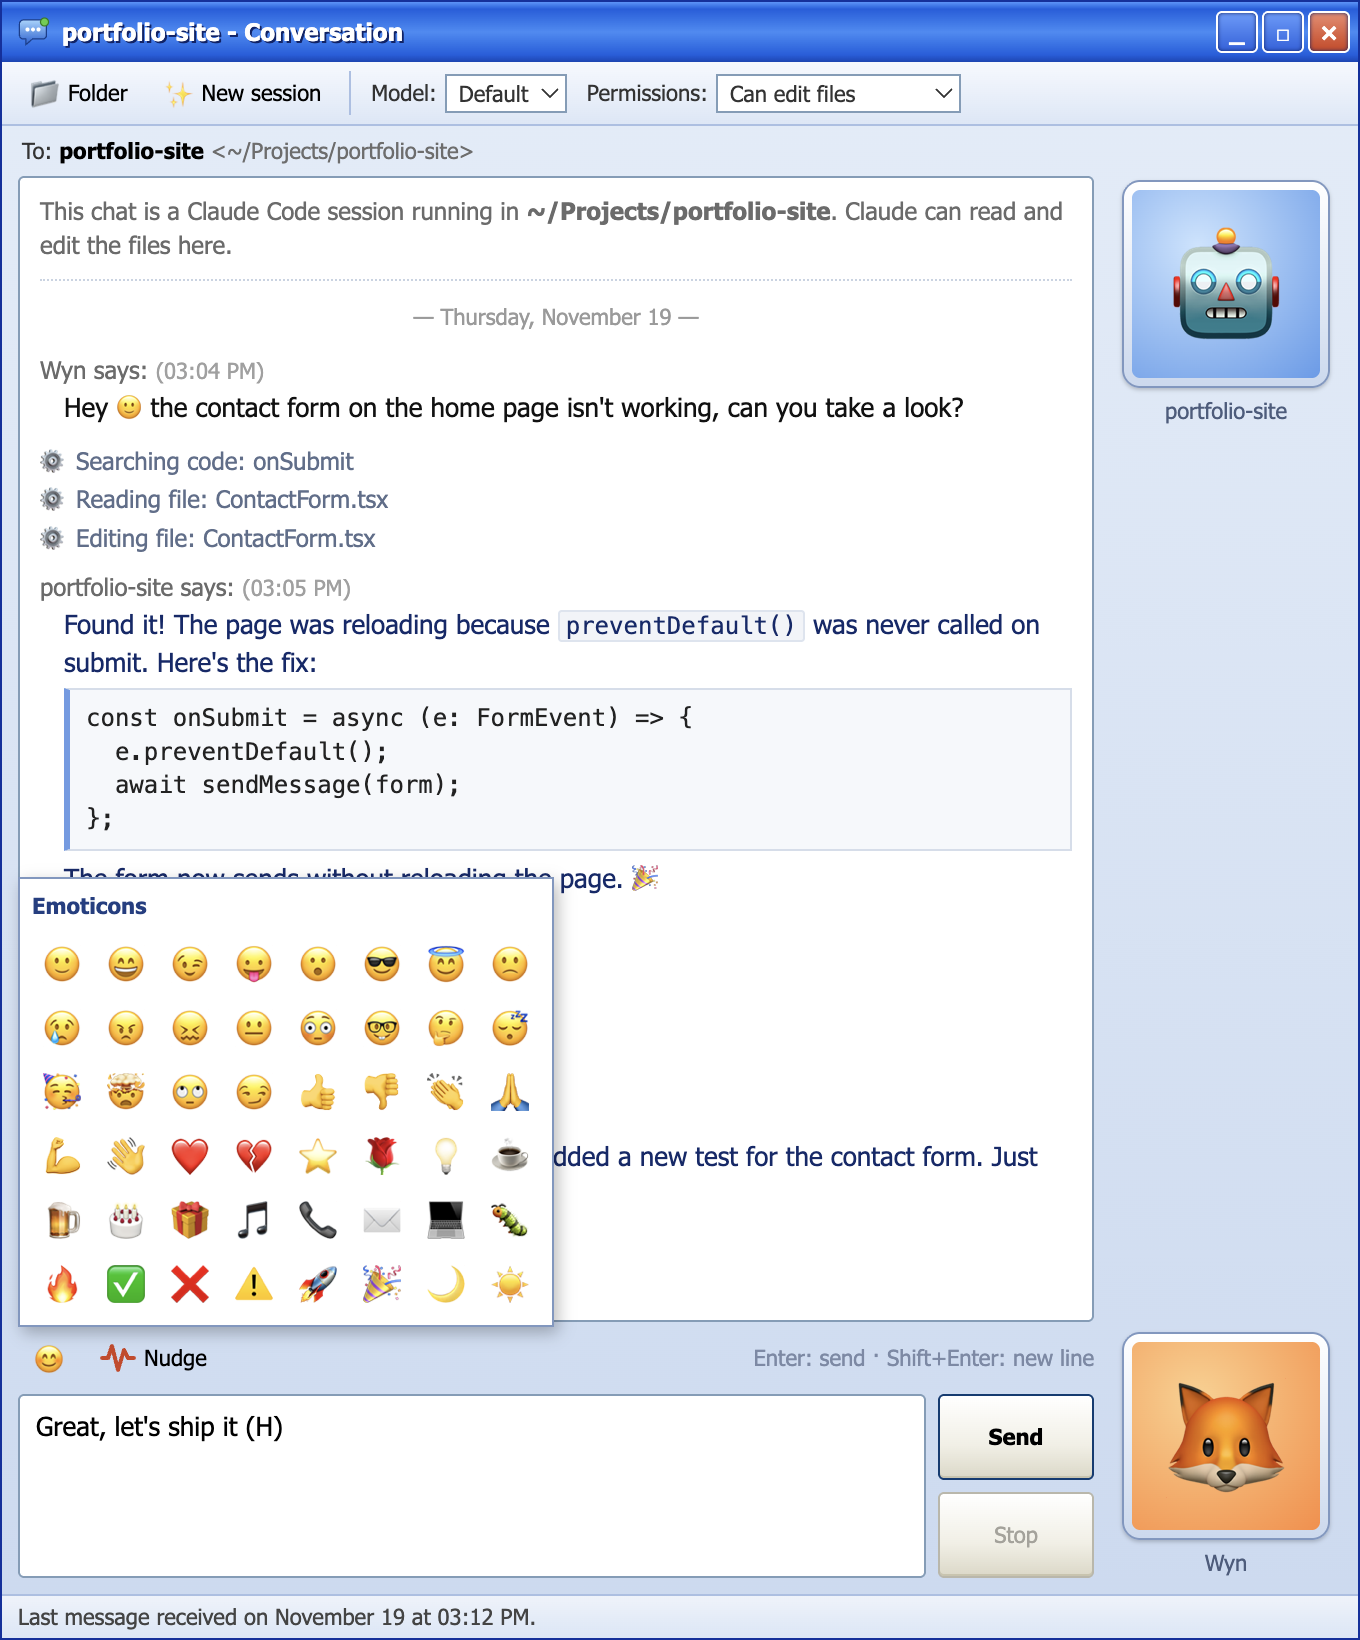
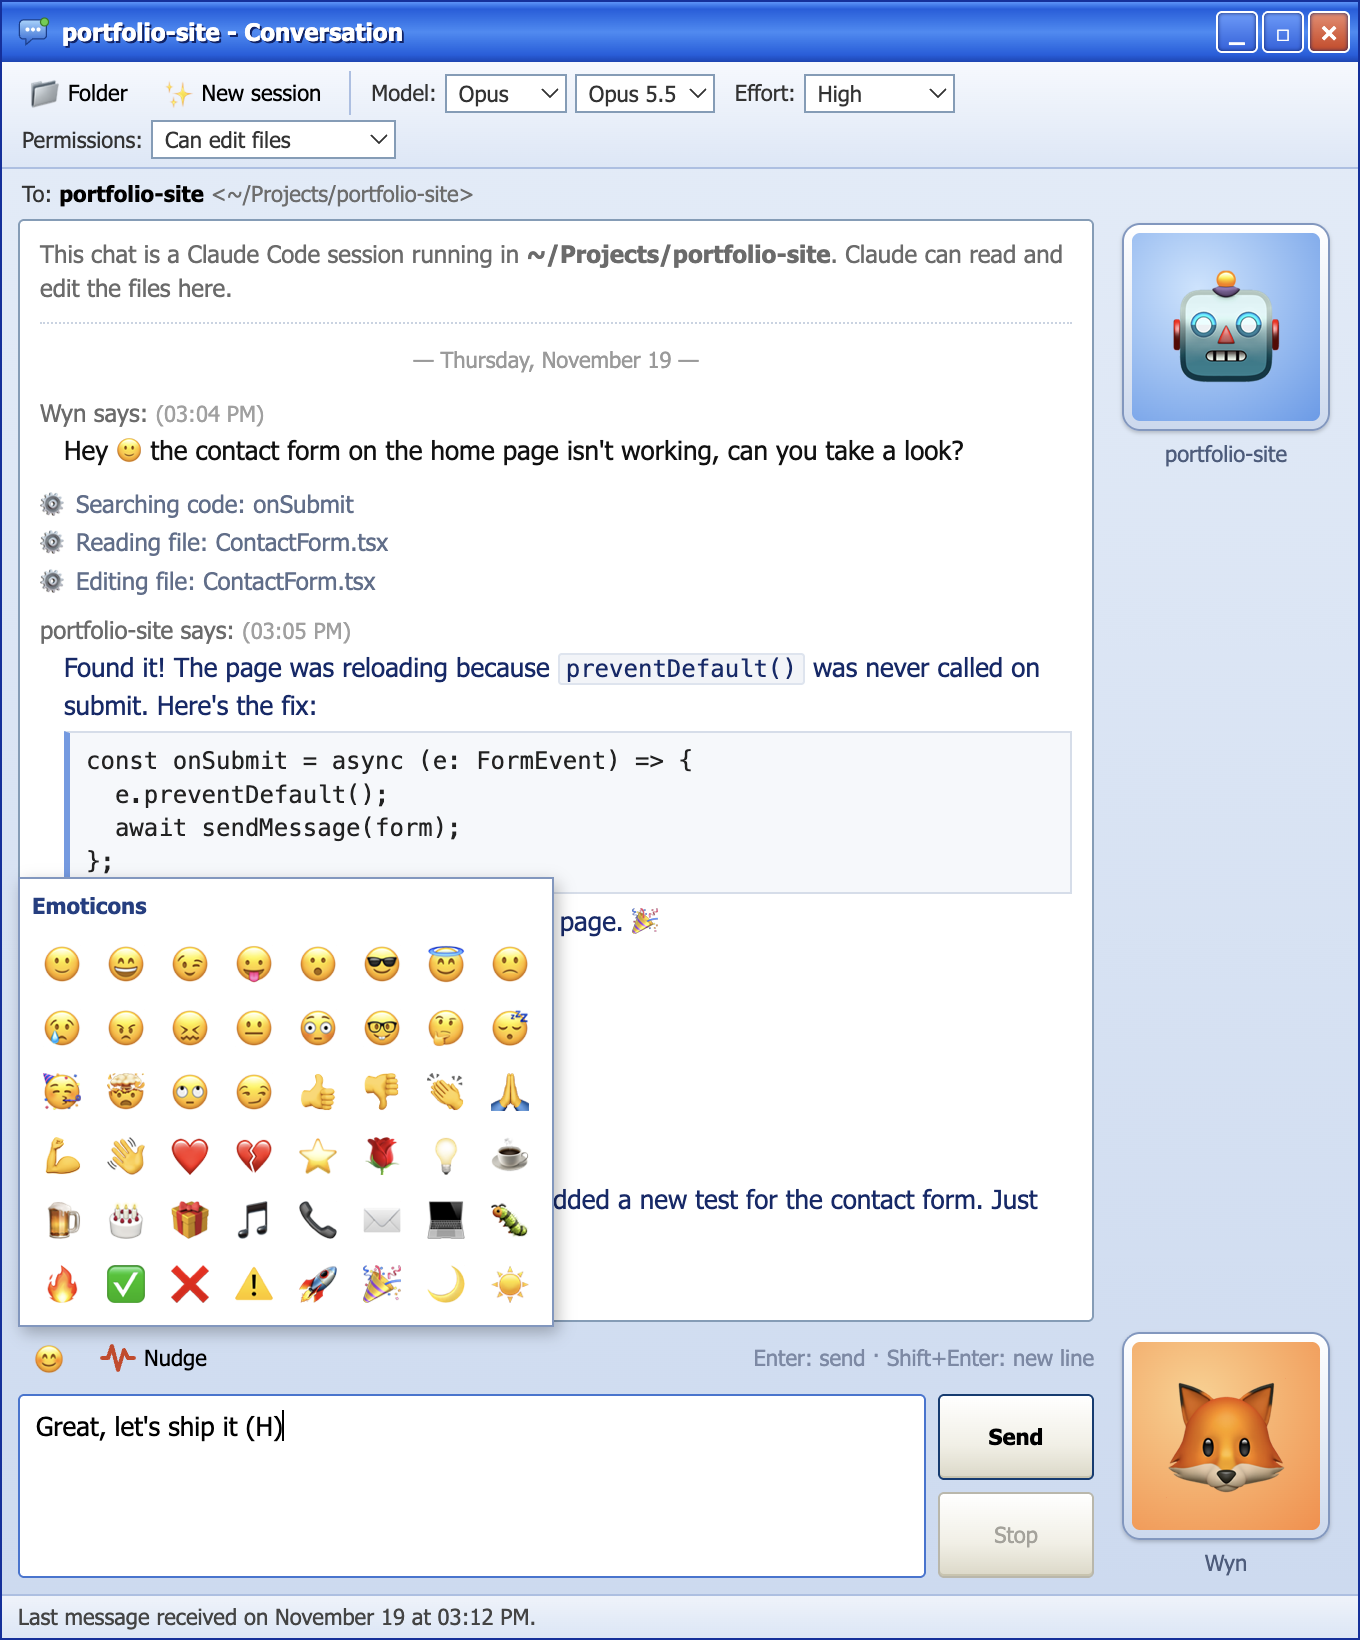
Add model version and effort pickers (v0.3.0)
- Pick a model family, then a specific version or Latest
- New per-chat effort setting (Low to Max), passed to Claude Code as --effort
- Effort levels a model doesn't support are hidden; Haiku 4.5 disables it
- Model list lives in renderer/models.js

diff --git a/renderer/chat.js b/renderer/chat.js
@@ -1,4 +1,4 @@
-/* global rm, t, LOCALE, $, esc, fmt, timeStr, avatarHtml, AVATARS, EMOTICONS, applyShortcuts, openGrid, initTitlebar, setTitle, applyI18n */
+/* global rm, t, LOCALE, MODELS, $, esc, fmt, timeStr, avatarHtml, AVATARS, EMOTICONS, applyShortcuts, openGrid, initTitlebar, setTitle, applyI18n */
 
 const id = new URLSearchParams(location.search).get('id');
 let chat = null;
@@ -57,7 +57,7 @@ function renderChrome() {
   setTitle(t('chat.title', { name: chat.name }));
   $('#to-name').textContent = chat.name;
   $('#to-cwd').textContent = chat.cwd;
-  $('#model').value = chat.model || '';
+  renderModelPickers();
   $('#perm').value = chat.permissionMode || 'acceptEdits';
   $('#dp-claude').innerHTML = avatarHtml(chat.avatar, 'xl', busy ? 'busy-ring' : '');
   $('#lbl-claude').textContent = chat.name;
@@ -108,7 +108,36 @@ $('#stop').onclick = () => rm.stop(id);
 $('#btn-nudge').onclick = () => rm.nudge(id);
 $('#btn-folder').onclick = () => rm.reveal(id);
 $('#btn-new').onclick = () => rm.newSession(id);
-$('#model').onchange = (e) => rm.updateChat(id, { model: e.target.value });
+// ---------- Model, sürüm ve efor ----------
+
+function renderModelPickers() {
+  const { family, version } = MODELS.parse(chat.model);
+  $('#family').innerHTML =
+    `<option value="">${esc(t('chat.modelDefault'))}</option>` +
+    MODELS.FAMILIES.map((f) => `<option value="${f.key}">${f.name}</option>`).join('');
+  $('#family').value = family;
+
+  const fam = MODELS.FAMILIES.find((f) => f.key === family);
+  $('#version').style.display = fam ? '' : 'none';
+  $('#version').innerHTML = fam
+    ? `<option value="">${esc(t('chat.latest'))}</option>` +
+      fam.versions.map((v) => `<option value="${v.id}">${fam.name} ${v.label}</option>`).join('')
+    : '';
+  $('#version').value = version;
+
+  const allowed = MODELS.efforts(chat.model);
+  const effortSel = $('#effort');
+  effortSel.disabled = allowed.length === 0;
+  effortSel.title = allowed.length ? '' : t('chat.effortNone');
+  effortSel.innerHTML =
+    `<option value="">${esc(t('effort.default'))}</option>` +
+    allowed.map((e) => `<option value="${e}">${esc(t(`effort.${e}`))}</option>`).join('');
+  effortSel.value = allowed.includes(chat.effort) ? chat.effort : '';
+}
+
+$('#family').onchange = (e) => rm.updateChat(id, { model: e.target.value });
+$('#version').onchange = (e) => rm.updateChat(id, { model: e.target.value || $('#family').value });
+$('#effort').onchange = (e) => rm.updateChat(id, { effort: e.target.value });
 $('#perm').onchange = (e) => rm.updateChat(id, { permissionMode: e.target.value });
 $('#btn-emo').onclick = (e) => {
   e.stopPropagation();

diff --git a/renderer/models.js b/renderer/models.js
@@ -1,0 +1,70 @@
+// Claude model families, versions and supported effort levels.
+// Shared by the main process (require) and the renderer (<script>).
+(function (root) {
+  const ALL = ['low', 'medium', 'high', 'xhigh', 'max'];
+  const NO_XHIGH = ['low', 'medium', 'high', 'max'];
+
+  // The first version in each list is the newest. The family alias ("opus", ...) always means
+  // the newest version in Claude Code, so picking "Latest" keeps working when new models ship.
+  const FAMILIES = [
+    {
+      key: 'fable',
+      name: 'Fable',
+      versions: [
+        { id: 'claude-fable-5-2', label: '5.2' },
+        { id: 'claude-fable-5-1', label: '5.1' },
+        { id: 'claude-fable-5', label: '5' },
+      ],
+    },
+    {
+      key: 'opus',
+      name: 'Opus',
+      versions: [
+        { id: 'claude-opus-5-5', label: '5.5' },
+        { id: 'claude-opus-5', label: '5' },
+        { id: 'claude-opus-4-8', label: '4.8' },
+        { id: 'claude-opus-4-7', label: '4.7' },
+        { id: 'claude-opus-4-6', label: '4.6', efforts: NO_XHIGH },
+      ],
+    },
+    {
+      key: 'sonnet',
+      name: 'Sonnet',
+      versions: [
+        { id: 'claude-sonnet-5-5', label: '5.5' },
+        { id: 'claude-sonnet-5', label: '5' },
+        { id: 'claude-sonnet-4-6', label: '4.6', efforts: NO_XHIGH },
+      ],
+    },
+    {
+      key: 'haiku',
+      name: 'Haiku',
+      versions: [
+        { id: 'claude-haiku-5-5', label: '5.5' },
+        { id: 'claude-haiku-4-5', label: '4.5', efforts: [] },
+      ],
+    },
+  ];
+
+  // model: '' (Claude Code default), a family alias ('opus') or a full ID ('claude-opus-5').
+  function parse(model) {
+    if (!model) return { family: '', version: '' };
+    for (const f of FAMILIES) {
+      if (model === f.key) return { family: f.key, version: '' };
+      if (f.versions.some((v) => v.id === model)) return { family: f.key, version: model };
+    }
+    return { family: '', version: '' };
+  }
+
+  function efforts(model) {
+    const { family, version } = parse(model);
+    if (!version) return ALL; // default or "latest": current models support every level
+    const f = FAMILIES.find((x) => x.key === family);
+    const v = f.versions.find((x) => x.id === version);
+    return v.efforts || ALL;
+  }
+
+  const api = { FAMILIES, EFFORTS: ALL, parse, efforts };
+  if (typeof module !== 'undefined' && module.exports) module.exports = api;
+  else root.MODELS = api;
+})(typeof window !== 'undefined' ? window : globalThis);

diff --git a/renderer/i18n.js b/renderer/i18n.js
@@ -63,6 +63,18 @@
       'chat.newSessionTitle': 'Forget the previous conversation and start a new session',
       'chat.model': 'Model:',
       'chat.modelDefault': 'Default',
+      'chat.modelTitle': 'Which Claude model answers in this chat',
+      'chat.version': 'Version',
+      'chat.latest': 'Latest',
+      'chat.effort': 'Effort:',
+      'chat.effortTitle': 'How hard Claude thinks before answering. Higher is smarter, but slower and uses more of your limit.',
+      'chat.effortNone': "This model doesn't support effort",
+      'effort.default': 'Default',
+      'effort.low': 'Low',
+      'effort.medium': 'Medium',
+      'effort.high': 'High',
+      'effort.xhigh': 'Extra high',
+      'effort.max': 'Max',
       'chat.perm': 'Permissions:',
       'chat.permTitle': 'What Claude can do without asking',
       'perm.default': 'Read only',
@@ -187,6 +199,18 @@
       'chat.newSessionTitle': 'Önceki konuşmayı unutup yeni bir oturum başlat',
       'chat.model': 'Model:',
       'chat.modelDefault': 'Varsayılan',
+      'chat.modelTitle': 'Bu sohbette hangi Claude modelinin yanıt vereceği',
+      'chat.version': 'Sürüm',
+      'chat.latest': 'En yeni',
+      'chat.effort': 'Efor:',
+      'chat.effortTitle': 'Claude yanıt vermeden önce ne kadar düşünsün. Yükseldikçe daha akıllı olur ama yavaşlar ve kullanım sınırınızdan daha çok harcar.',
+      'chat.effortNone': 'Bu model efor ayarını desteklemiyor',
+      'effort.default': 'Varsayılan',
+      'effort.low': 'Düşük',
+      'effort.medium': 'Orta',
+      'effort.high': 'Yüksek',
+      'effort.xhigh': 'Çok yüksek',
+      'effort.max': 'Maksimum',
       'chat.perm': 'Yetki:',
       'chat.permTitle': "Claude'un sormadan neler yapabileceği",
       'perm.default': 'Yalnızca okuma',

diff --git a/renderer/chat.html b/renderer/chat.html
@@ -75,13 +75,12 @@
     <button class="tool-btn" id="btn-folder" data-i18n-title="chat.folderTitle"><span class="ico">📁</span><span data-i18n="chat.folder"></span></button>
     <button class="tool-btn" id="btn-new" data-i18n-title="chat.newSessionTitle"><span class="ico">✨</span><span data-i18n="chat.newSession"></span></button>
     <span class="sep"></span>
-    <label><span data-i18n="chat.model"></span>
-      <select id="model">
-        <option value="" data-i18n="chat.modelDefault"></option>
-        <option value="opus">Opus</option>
-        <option value="sonnet">Sonnet</option>
-        <option value="haiku">Haiku</option>
-      </select>
+    <label data-i18n-title="chat.modelTitle"><span data-i18n="chat.model"></span>
+      <select id="family"></select>
+      <select id="version" data-i18n-title="chat.version"></select>
+    </label>
+    <label data-i18n-title="chat.effortTitle"><span data-i18n="chat.effort"></span>
+      <select id="effort"></select>
     </label>
     <label data-i18n-title="chat.permTitle"><span data-i18n="chat.perm"></span>
       <select id="perm">
@@ -123,6 +122,7 @@
   <div class="statusbar" id="status"></div>
 
   <script src="i18n.js"></script>
+  <script src="models.js"></script>
   <script src="common.js"></script>
   <script src="chat.js"></script>
 </body>

diff --git a/main.js b/main.js
@@ -4,6 +4,7 @@ const os = require('os');
 const store = require('./src/store');
 const { ClaudeSession, resolveEnvironment } = require('./src/claude-session');
 const I18N = require('./renderer/i18n');
+const MODELS = require('./renderer/models');
 
 const isMac = process.platform === 'darwin';
 const PRELOAD = path.join(__dirname, 'preload.js');
@@ -183,6 +184,7 @@ function getSession(chat) {
     cwd: chat.cwd,
     sessionId: chat.sessionId,
     model: chat.model,
+    effort: MODELS.efforts(chat.model).includes(chat.effort) ? chat.effort : '',
     permissionMode: chat.permissionMode,
     t,
   });
@@ -315,8 +317,8 @@ ipcMain.handle('chat:get', (_e, id) => ({
 
 ipcMain.handle('chat:update', (_e, id, patch) => {
   const allowed = {};
-  for (const k of ['name', 'avatar', 'pinned', 'model', 'permissionMode']) if (k in patch) allowed[k] = patch[k];
-  const restart = ('model' in allowed || 'permissionMode' in allowed) && sessions.has(id);
+  for (const k of ['name', 'avatar', 'pinned', 'model', 'effort', 'permissionMode']) if (k in patch) allowed[k] = patch[k];
+  const restart = ['model', 'effort', 'permissionMode'].some((k) => k in allowed) && sessions.has(id);
   store.updateChat(id, allowed);
   if (restart) {
     const wasBusy = busy.has(id);

diff --git a/src/claude-session.js b/src/claude-session.js
@@ -75,13 +75,14 @@ function describeTool({ name, input = {} }, t) {
 }
 
 class ClaudeSession extends EventEmitter {
-  constructor({ env, cwd, sessionId, model, permissionMode, t }) {
+  constructor({ env, cwd, sessionId, model, effort, permissionMode, t }) {
     super();
     this.t = t;
     this.env = env;
     this.cwd = cwd;
     this.sessionId = sessionId || null;
     this.model = model || '';
+    this.effort = effort || '';
     this.permissionMode = permissionMode || 'acceptEdits';
     this.proc = null;
     this.busy = false;
@@ -112,6 +113,7 @@ class ClaudeSession extends EventEmitter {
       '--permission-mode', this.permissionMode,
     ];
     if (this.model) args.push('--model', this.model);
+    if (this.effort) args.push('--effort', this.effort);
     if (this.sessionId) args.push('--resume', this.sessionId);
 
     const proc = spawn(this.env.claudePath, args, {

diff --git a/src/store.js b/src/store.js
@@ -53,6 +53,7 @@ function createChat({ name, cwd, avatar }) {
     avatar: avatar || '🤖',
     sessionId: null,
     model: '',
+    effort: '',
     permissionMode: 'acceptEdits',
     pinned: false,
     createdAt: Date.now(),

diff --git a/README.tr.md b/README.tr.md
@@ -84,7 +84,8 @@ Durumunuz "Meşgul" ise hepsi susar.
 </table>
 
 ### ⚙ Diğerleri
-- Her sohbet için **model** (Opus, Sonnet, Haiku) ve **yetki** seçimi: yalnızca okuma, plan, dosya düzenleme veya tam yetki.
+- Her sohbet için **model, sürüm ve efor** seçimi. Önce aileyi (Fable, Opus, Sonnet, Haiku), sonra sürümü (örneğin Opus 5.5, 5 veya 4.8) ya da "En yeni"yi seçin. Efor Düşük'ten Maksimum'a kadar ayarlanabilir; modelin desteklemediği seviyeler listede görünmez.
+- Her sohbet için **yetki** seçimi: yalnızca okuma, plan, dosya düzenleme veya tam yetki.
 - Claude'un 5 saatlik kullanım sınırını gösteren **kullanım çubuğu**.
 - **Türkçe ve İngilizce** arayüz. Sistem dilinize göre açılır; kişi listesinin altından değiştirebilirsiniz.
 - Uygulama kapanıp açılınca sohbetler ve Claude oturumları kaldığı yerden devam eder.
@@ -140,6 +141,7 @@ Her sohbet için arka planda `claude -p --input-format stream-json --output-form
 | `src/claude-session.js` | `claude` sürecini yönetir ve akan olayları sadeleştirir |
 | `src/store.js` | Profil ve sohbet geçmişi (kullanıcı veri klasöründe `data.json`) |
 | `renderer/i18n.js` | Türkçe ve İngilizce metinler |
+| `renderer/models.js` | Model aileleri, sürümler ve her birinin desteklediği efor seviyeleri |
 | `renderer/` | Arayüz: `list` kişi listesi, `chat` sohbet penceresi, `toast` bildirim kutusu, `common` ortak stil ve yardımcılar |
 
 ### Yeni dil ekleme

diff --git a/README.md b/README.md
@@ -84,7 +84,8 @@ Set your status to "Busy" to silence all of it.
 </table>
 
 ### ⚙ And also
-- **Model** (Opus, Sonnet, Haiku) and **permission** choice for each chat: read only, plan, edit files or full access.
+- **Model, version and effort** for each chat. Pick a family (Fable, Opus, Sonnet, Haiku), then a version (for example Opus 5.5, 5 or 4.8) or "Latest". Effort runs from Low to Max; levels a model doesn't support are hidden.
+- **Permissions** for each chat: read only, plan, edit files or full access.
 - A **usage bar** that shows Claude's 5-hour usage limit.
 - **English and Turkish** UI. It follows your system language, and you can switch it from the contact list.
 - Chats and Claude sessions pick up where they left off after you restart the app.
@@ -140,6 +141,7 @@ Each chat runs a `claude -p --input-format stream-json --output-format stream-js
 | `src/claude-session.js` | Runs the `claude` process and simplifies its event stream |
 | `src/store.js` | Profile and chat history (`data.json` in the user data folder) |
 | `renderer/i18n.js` | English and Turkish strings |
+| `renderer/models.js` | Model families, versions and the effort levels each one supports |
 | `renderer/` | UI: `list` contact list, `chat` conversation window, `toast` notification, `common` shared styles and helpers |
 
 ### Adding a language
